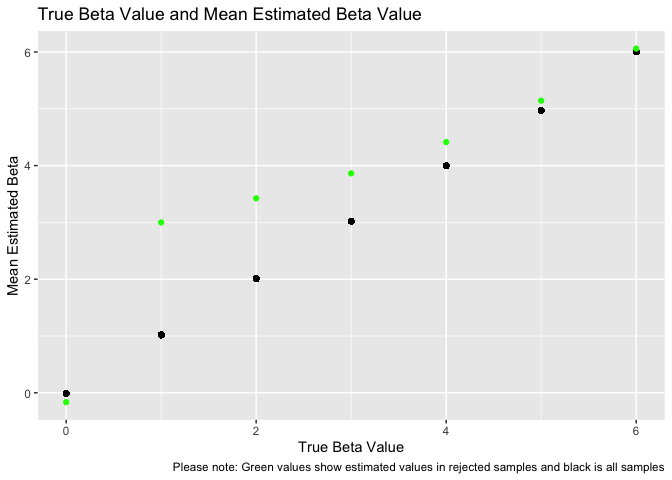
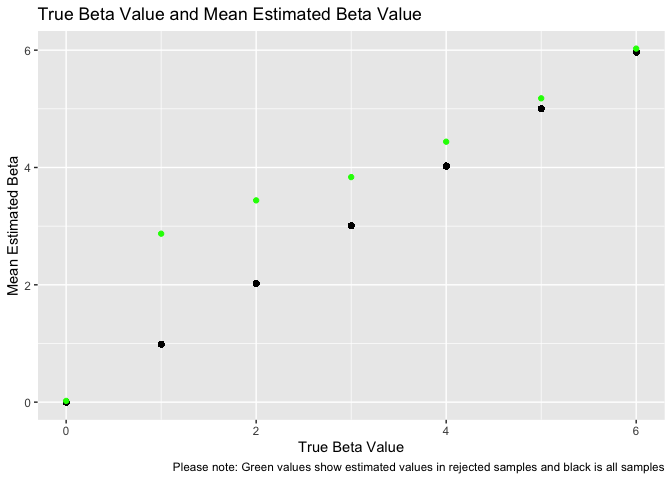
updated plot for control/experimental arm for problem 2 because it had 40 lines instead of 20. done!

diff --git a/p8105_hw5_hf2379.md b/p8105_hw5_hf2379.md
@@ -55,15 +55,18 @@ longitudinal_study_df = source_df %>%
   ) %>% 
   select(file, load) %>% 
   unnest(cols = load) %>% 
+  mutate(
+    observation = row_number()
+  ) %>% 
   pivot_longer(
     week_1:week_8, 
     names_to = "week",
     names_prefix = "week_", 
     values_to = "values"
   ) %>% 
-  separate(file, into = c("arm", "observation"), sep = "_" ) %>% 
+  separate(file, into = c("arm", "delete"), sep = "_" ) %>% 
+  select(-delete) %>% 
   mutate(
-    observation = str_replace(observation, "\\.csv", ""), 
     arm = recode(arm, 
            con = "Control", 
            exp = "Experimental")
@@ -72,8 +75,8 @@ longitudinal_study_df = source_df %>%
 
 study_plot = longitudinal_study_df %>% 
   group_by(observation) %>% 
-  ggplot(aes(x = week, y = values, color = arm, group = arm)) + 
-  geom_path() + 
+  ggplot(aes(x = week, y = values, color = arm, group = observation)) + 
+  geom_path() +
   labs(
     title = "Differences in Study Arms Across 8 Weeks",
     x = "Week",
@@ -116,7 +119,7 @@ linear_regression = function(n = 30, beta0 = 2, beta1, var = 50) {
 }
 
 regression_results_test = 
-  rerun(10000, linear_regression(beta1 = 0)) %>% 
+  rerun(100, linear_regression(beta1 = 0)) %>% 
   bind_rows() %>% 
   filter(term == "x") %>% 
   select(estimate, p.value)
@@ -159,11 +162,10 @@ Power is the probability of correctly rejecting the null hypothesis and
 is directly related to effect size. As effect size increases, it becomes
 “easier” to detect the difference between two groups and therefore
 “easier” to correctly reject the null hypothesis. For this reason, as
-effect size increases, so does the power. As expected, we see a positive
-relationship between effect size and power in the graph above. At the
-lowest value of beta (0), we only correctly reject the null about 5% of
-the time; however, at the highest value of beta (6), we correctly reject
-the null almost 100% of the time.
+effect size increases, so does the power. At the lowest value of beta
+(0), we only correctly reject the null about 5% of the time; however, at
+the highest value of beta (6), we correctly reject the null almost 100%
+of the time.
 
 ``` r
 true_and_estimate = regression_results %>% 
@@ -208,9 +210,8 @@ increases.
 #### Explanation
 
 As described above, lower effect sizes are more difficult to estimate
-due to low power. If we focus only on the sample that we rejected (green
-values), we expect that the estimated values for the smaller effect
-sizes will be less accurate compared to the estimated betas for the
-effect sizes. Again, this is because it is much harder to accurately
-estimate the true betas (differences between groups) when the effect
-size is small.
+due to low power. Additionally, we reject the null hypothesis more often
+when the effect size is larger. If we focus only on the sample that we
+rejected (green values), we expect that the estimated values for the
+smaller effect sizes will be less accurate and larger than the true
+value.
